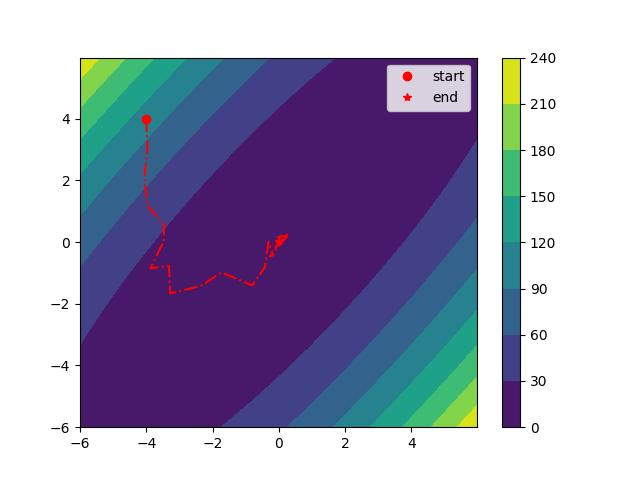
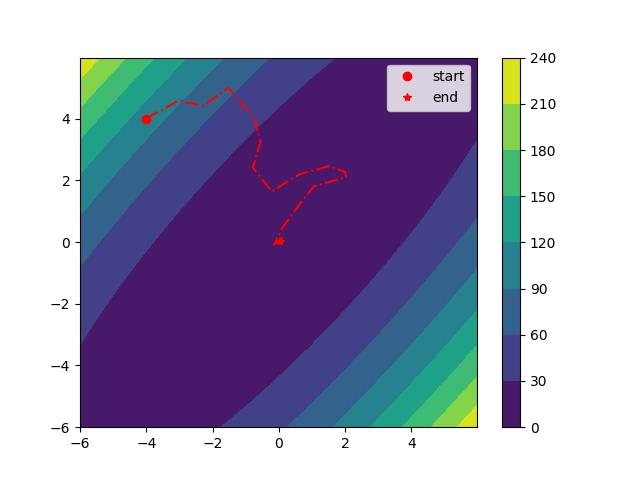
consistent comments in English and running example

diff --git a/HW1.py b/HW1.py
@@ -1,8 +1,8 @@
 """
 Code for homework #1 Evolutionary Computing Class
 Authors:
-Luis Ignacio Ferro Salinas
-Iván
+Luis Ignacio Ferro Salinas A01378248
+Iván Miguel García López
 """
 
 import numpy as np
@@ -12,8 +12,10 @@ from scipy import optimize
 
 # Global minimums obtained via Wolfram Alpha.
 min1 = [np.array([0, 0])]
-min2 = [np.array([-0.08984201310031806242249056062, 0.7126564030207396333972658142]),
-        np.array([0.08984201310031806242249056062, -0.7126564030207396333972658142])]
+min2 = [
+    np.array([-0.08984201310031806242249056062, 0.7126564030207396333972658142]),
+    np.array([0.08984201310031806242249056062, -0.7126564030207396333972658142]),
+]
 min3 = [np.array([0, 0])]
 
 
@@ -88,15 +90,15 @@ def line_search_wolfe(
     func, my_actual_symbs, x, p, constraints, c1=1e-4, c2=0.9, t_init=1
 ):
     """
-    Control del tamaño de paso usando las condiciones de Wolfe.
+    Step size control using Wolfe conditions.
 
-    :param func: Función objetivo a minimizar.
-    :param x: Solución actual.
-    :param p: Dirección de descenso.
-    :param c1: Constante para la primera condición de Wolfe.
-    :param c2: Constante para la segunda condición de Wolfe.
-    :param t_init: Paso inicial.
-    :return: t: Tamaño de paso óptimo.
+    :param func: Objective function to minimize.
+    :param x: Current solution.
+    :param p: Direction of descent.
+    :param c1: Constant for the first Wolfe condition.
+    :param c2: Constant for the second Wolfe condition.
+    :param t_init: Initial step.
+    :return: t: Optimal step size.
     """
     t = t_init
     flag = False
@@ -144,14 +146,13 @@ def gradient_descent(
     func, my_actual_symbs, x_init, constraints, max_iter=1000, tol=1e-6, t_init=1
 ):
     """
-    Método de descenso de gradiente con control del tamaño de paso usando condiciones
-    de Wolfe.
+    Gradient descent method with step size control using Wolfe conditions.
 
-    :param func: Función objetivo a minimizar.
-    :param x_init: Suposición inicial.
-    :param max_iter: Número máximo de iteraciones.
-    :param tol: Tolerancia para la convergencia.
-    :return: x_optimal: El punto óptimo encontrado.
+    :param func: Objective function to minimize.
+    :param x_init: Initial values x.
+    :param max_iter: Maximum number of iterations.
+    :param tol: Tolerance for convergence.
+    :return: x_optimal: Optimal point found.
     """
     x_list = [x_init]
 
@@ -159,6 +160,10 @@ def gradient_descent(
     # debug(x, 'x')
 
     for i in range(max_iter):
+        # 0-indexed
+        if i >= 19:
+            break
+
         grad = gradient(func, x, my_actual_symbs)
 
         # print(np.linalg.norm(grad), 'grad norm')
@@ -178,15 +183,23 @@ def gradient_descent(
     return x_list, i + 1
 
 
-def newton(f, my_actual_symbs, tol, x_init, constraints, with_wolfe=False, t_init=None):
+def newton(
+    f,
+    my_actual_symbs,
+    tol,
+    x_init,
+    constraints,
+    with_wolfe=False,
+    t_init=None,
+    verbose=False,
+):
     """
-    Calcula el mínimo de la función f usando el
-    método de Newton.
+    Calculates minimum of function f using Newton's method.
 
-    :param f: Función objetivo a minimizar.
-    :param tol: Tolerancia para la convergencia.
-    :param x_init: Valor inicial de las variables independientes.
-    :return: x: Los parámetros de la solución.
+    :param f: Objective function to minimize.
+    :param tol: Tolerance for convergence.
+    :param x_init: Initial value for independent variables.
+    :return: x: Values of the solution.
     """
 
     x_list = [x_init]
@@ -197,31 +210,49 @@ def newton(f, my_actual_symbs, tol, x_init, constraints, with_wolfe=False, t_ini
     # debug(tol, 'tol')
 
     while tol < np.linalg.norm(gradient(f, x, my_actual_symbs)):
-        # debug(c, 'iteration')
-        # debug(np.linalg.norm(gradient(f, x, my_actual_symbs)), 'norm grad')
+        if c >= 20:
+            break
+        if verbose:
+            debug(c + 1, "iteration")
+            debug(np.linalg.norm(gradient(f, x, my_actual_symbs)), "Gradient norm")
         grad1 = gradient(f, x, my_actual_symbs)
         grad2 = gradient2(f, x, my_actual_symbs)
-        # debug(x, 'x values')
 
-        # debug(grad1, 'gradient')
-        # debug(grad2, 'gradient 2')
+        if verbose:
+            debug(x, "x values")
+            debug(grad1, "1st derivative (Jacobian)")
+            debug(grad2, "2nd derivative (Hessian)")
+
         inv_grad2 = -np.linalg.inv(grad2)
-        # debug(inv_grad2, 'inverse grad 2')
+
+        if verbose:
+            debug(inv_grad2, "negative inverse of Hessian")
+
         p = np.dot(inv_grad2, grad1)
-        # debug(p, 'direction p')
+
+        if verbose:
+            debug(p, "Direction p")
+
         if with_wolfe:
             t = line_search_wolfe(f, my_actual_symbs, x, p, constraints, t_init=t_init)
         else:
             t = 1
-        # debug(t, 't')
 
+        if verbose and with_wolfe:
+            debug(t, "Step size obtained with Wolfe conditions t")
+        elif verbose and not with_wolfe:
+            debug(t, "Step size without using Wolfe conditions t")
         if not constrained(x + t * p, constraints):
             break
+
         x = x + t * p
         x_list += [x]
 
         # debug(np.linalg.norm(grad1), 'gradient norm')
         c += 1
+    if verbose:
+        x1, x2 = x_list[-1]
+        debug((float(format(x1, ".10f")), float(format(x2, ".10f"))), 'THE OPTIMAL POINT FOUND AT:')
 
     return x_list, c
 
@@ -246,6 +277,9 @@ def hill_climber(
         # Generate a random step
         x_new = x + step_size * (2 * np.random.rand(len(x)) - 1)
         f_val_new = evaluate(func, x_new, my_actual_symbs)
+
+        if not constrained(x_new, constraints):
+            break
 
         # If the new solution is better, update
         if f_val_new < f_val:
@@ -337,21 +371,27 @@ def print_4_table(func, final_points, algo, mins_x, iters):
 
     titles = "Algorithm & Point Found & Evaluation & Optimal point & Real Minimum & \
 2-norm error between points & iterations"
-    
-    errors = [float(format(np.linalg.norm(min - final_points), '.10f')) \
-              for min in mins_x]
-    real_mins = [func(min_x) for min_x in mins_x]
-    real_mins_fmt = [float(format(rmin, '.10f')) for rmin in real_mins]
 
-    mins_x_fmt = [(float(format(x1, '.10f')), 
-                   float(format(x2, '.10f'))) for x1, x2 in mins_x]
+    errors = [
+        float(format(np.linalg.norm(min - final_points), ".10f")) for min in mins_x
+    ]
+    real_mins = [func(min_x) for min_x in mins_x]
+    real_mins_fmt = [float(format(rmin, ".10f")) for rmin in real_mins]
+
+    mins_x_fmt = [
+        (float(format(x1, ".10f")), float(format(x2, ".10f"))) for x1, x2 in mins_x
+    ]
 
     curr_str = (
         algo
         + " & "
-        + str(final_points)
+        + "[("
+        + format(final_points[0], ".10f")
+        + ", "
+        + format(final_points[1], ".10f")
+        + ")]"
         + " & "
-        + format(func1(final_points), '.10f')
+        + format(func1(final_points), ".10f")
         + " & "
         + str(mins_x_fmt)
         + " & "
@@ -364,6 +404,12 @@ def print_4_table(func, final_points, algo, mins_x, iters):
 
     debug(curr_str, titles)
 
+
+debug(
+    "",
+    "THIS SECTION DISPLAYS THE BEST RESULT THAT EACH METHOD CAN OBTAIN FOR THE \
+THREE PROBLEMS",
+)
 
 # Gradient descent
 # 0.8 for all 3 to work
@@ -387,24 +433,57 @@ plot_contour(func3, constraints3, x_list3, "function_3_gradient_descent")
 print_4_table(func3, x_list3[-1], "gradient descent", min3, iters3)
 
 # Newton without wolfe
-x_list12, iters12 = newton(expression1, [x1, x2], 1e-6, x_init1, constraints1, with_wolfe=False)
-x_list22, iters22 = newton(expression2, [x1, x2], 1e-6, x_init2, constraints2, with_wolfe=False)
-x_list32, iters32 = newton(expression3, [x1, x2], 1e-6, x_init3, constraints3, with_wolfe=False)
+x_list12, iters12 = newton(
+    expression1, [x1, x2], 1e-6, x_init1, constraints1, with_wolfe=False, verbose=False
+)
+x_list22, iters22 = newton(
+    expression2, [x1, x2], 1e-6, x_init2, constraints2, with_wolfe=False, verbose=False
+)
+x_list32, iters32 = newton(
+    expression3, [x1, x2], 1e-6, x_init3, constraints3, with_wolfe=False, verbose=False
+)
 plot_contour(func1, constraints1, x_list12, "function_1_newton_no_wolfe")
-print_4_table(func1, x_list12[-1], "newton", min1, iters12)
+print_4_table(func1, x_list12[-1], "newton no wolfe", min1, iters12)
 plot_contour(func2, constraints2, x_list22, "function_2_newton_no_wolfe")
-print_4_table(func2, x_list22[-1], "newton", min2, iters22)
+print_4_table(func2, x_list22[-1], "newton no wolfe", min2, iters22)
 plot_contour(func3, constraints3, x_list32, "function_3_newton_no_wolfe")
-print_4_table(func3, x_list32[-1], "newton", min3, iters32)
+print_4_table(func3, x_list32[-1], "newton no wolfe", min3, iters32)
 
 # Newton Method with wolfe
 # 1 for all to work
 # t = 1
-x_list12, iters12 = newton(expression1, [x1, x2], 1e-6, x_init1, constraints1, with_wolfe=True, t_init=1)
+x_list12, iters12 = newton(
+    expression1,
+    [x1, x2],
+    1e-6,
+    x_init1,
+    constraints1,
+    with_wolfe=True,
+    t_init=1,
+    verbose=False,
+)
 # t = 0.6 finds minimum
-x_list22, iters22 = newton(expression2, [x1, x2], 1e-6, x_init2, constraints2, with_wolfe=True, t_init=0.6)
+x_list22, iters22 = newton(
+    expression2,
+    [x1, x2],
+    1e-6,
+    x_init2,
+    constraints2,
+    with_wolfe=True,
+    t_init=0.6,
+    verbose=False,
+)
 # t = 250 finds minimum in 338 iterations
-x_list32, iters32 = newton(expression3, [x1, x2], 1e-6, x_init3, constraints3, with_wolfe=True, t_init=250)
+x_list32, iters32 = newton(
+    expression3,
+    [x1, x2],
+    1e-6,
+    x_init3,
+    constraints3,
+    with_wolfe=True,
+    t_init=250,
+    verbose=False,
+)
 plot_contour(func1, constraints1, x_list12, "function_1_newton_wolfe")
 print_4_table(func1, x_list12[-1], "newton", min1, iters12)
 plot_contour(func2, constraints2, x_list22, "function_2_newton_wolfe")
@@ -422,3 +501,15 @@ plot_contour(func2, constraints2, x_list23, "function_2_hill_climber")
 print_4_table(func2, x_list23[-1], "hill climber", min2, iters23)
 plot_contour(func3, constraints3, x_list33, "function_3_hill_climber")
 print_4_table(func3, x_list33[-1], "hill climber", min3, iters33)
+
+debug("", "THIS SECTION DISPLAYS THE RUN OF THE NEWTON METHOD FOR PROBLEM 2")
+x_list12, iters12 = newton(
+    expression1,
+    [x1, x2],
+    1e-6,
+    x_init1,
+    constraints1,
+    with_wolfe=False,
+    t_init=1,
+    verbose=True,
+)
